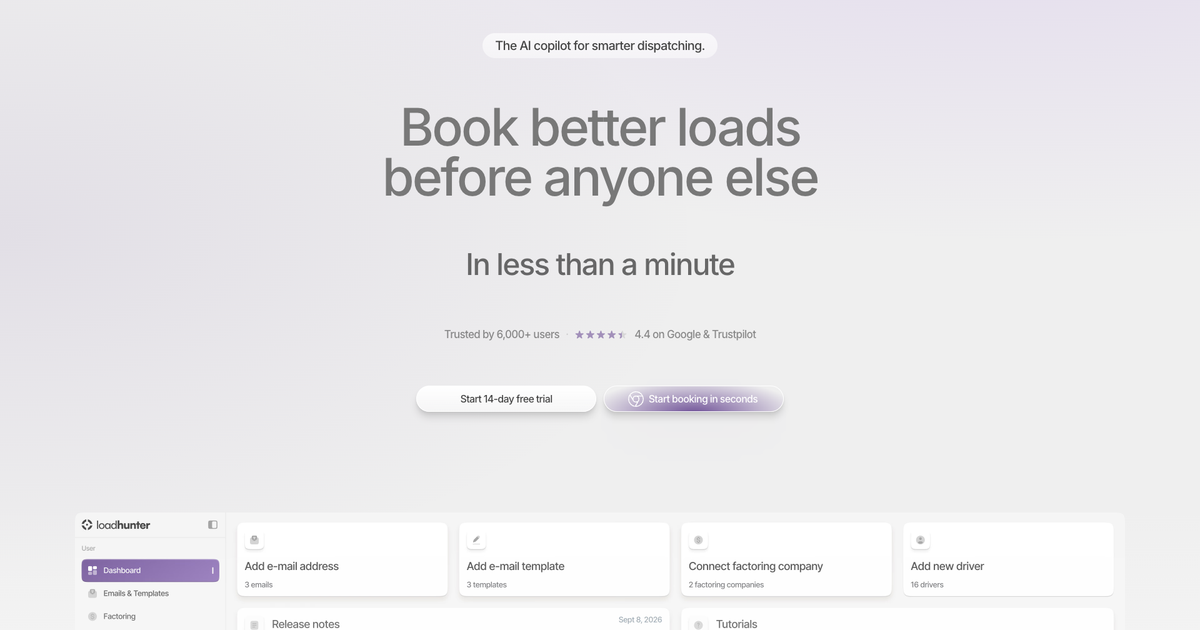
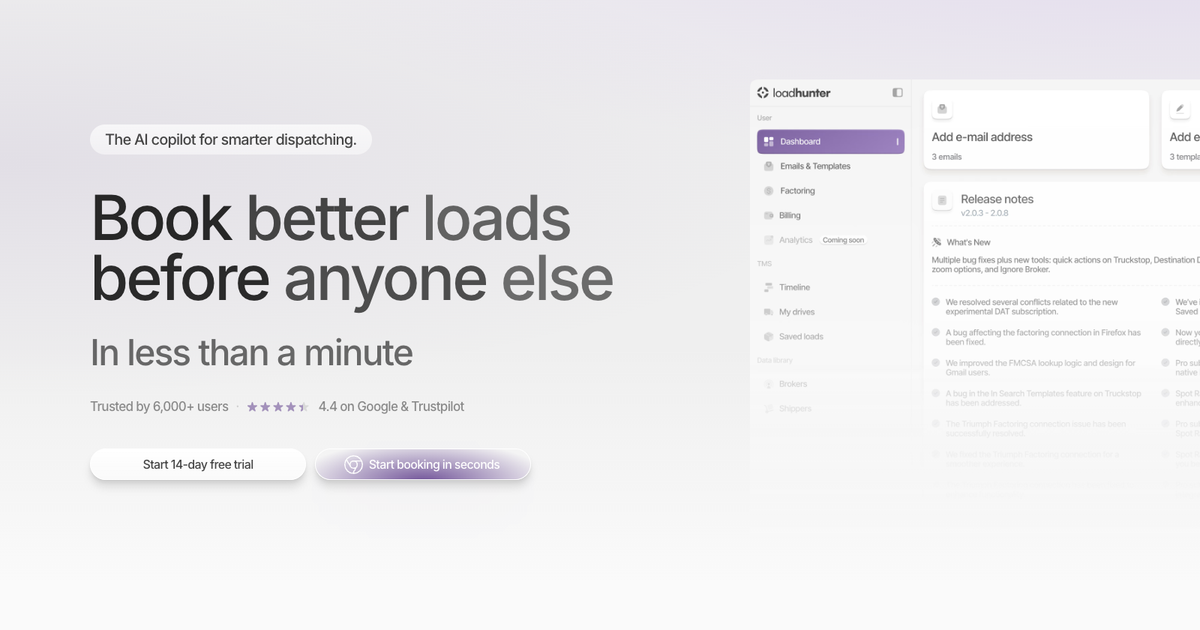
Split the hero left/right and weave the tools blocks together
Hero: copy column moves from the centre to the content grid (x120, w820) and
the dashboard screenshot moves to the right at 1500px wide, so ~580px of it
runs off the canvas edge — the inner canvas does not clip, and above 1920 it
bleeds into the gutter instead of ending on a cut. Its lower third is masked
out: the export's baked #fafafa fade used to read as a light rectangle now
that it no longer spans the full width. Section height 1740 -> 960, which puts
the product on the fold instead of 970px down the page.

Tools: replace the fixed 1461px block pitch with a content-driven rhythm
(previous top + measured height + GAP). GAP is -300, i.e. consecutive blocks
overlap on purpose — they sit on opposite sides of the spine, so the overlap
weaves the two columns together instead of leaving 470-670px in which both
sides were empty. Same-side blocks (i, i+2) keep 195-390px of clear air. First
block starts at 820 instead of 1028. Section height 10960 -> 5378.

og-image.png regenerated from the new hero.

diff --git a/src/sections/Tools.tsx b/src/sections/Tools.tsx
@@ -13,8 +13,9 @@ import { prefersReducedMotion } from "@/lib/inview"
  *   run right → soft arc → vertical drop at the CANVAS CENTRE (x=960).
  *   Feature blocks alternate sides of the centre line (1st right, 2nd left,
  *   …), each with a node on the spine at title level (+20). Block column
- *   w=777; title → desc → 80px → mockup (w=777) → 80px → items; block pitch
- *   1461.
+ *   w=688; title → desc → 80px → mockup (w=688) → 80px → items. The vertical
+ *   rhythm is content-driven — each block starts GAP px under the previous
+ *   one's real height (Block.h), not on the old fixed 1461px pitch.
  *
  * The path is revealed with stroke-dashoffset; the vertical front is kept
  * px-aligned with the 60%-viewport line (the curve prefix is compressed into
@@ -43,6 +44,15 @@ type Block = {
   desc: string
   items: Item[]
   mockup: string
+  /**
+   * Rendered height in canvas px. The blocks are absolutely positioned (fixed
+   * canvas), so the vertical rhythm cannot come from flow — it is
+   * `previous top + previous height + GAP`. Measured in the browser at
+   * scale 1 (`getBoundingClientRect` on `[data-tool-block]`); heights are
+   * stable before the mockups load because <Img> reserves their box from
+   * img-dimensions.ts. RE-MEASURE after editing a block's copy or mockup.
+   */
+  h: number
 }
 
 /* ------------------------------------------------- geometry constants --- */
@@ -51,15 +61,19 @@ const ICON_Y = 628 // icon centre — the horizontal run's y
 const ARC_R = 150 // corner radius of the horizontal→vertical turn
 const CURVE_END_Y = ICON_Y + ARC_R // where the arc lands on the vertical
 const SPINE_D = `M 206 ${ICON_Y} H ${CENTER_X - ARC_R} Q ${CENTER_X} ${ICON_Y} ${CENTER_X} ${CURVE_END_Y}`
-const BLOCK0_Y = 1028 // first block title top
-const PITCH = 1461 // title-to-title vertical rhythm
+const BLOCK0_Y = 820 // first block title top
+/** Vertical step between blocks = previous block's height + GAP. NEGATIVE on
+ *  purpose: consecutive blocks sit on OPPOSITE sides of the spine, so letting
+ *  them overlap by 300px weaves the two columns together (same-side blocks —
+ *  i.e. i and i+2 — still keep 195–390px of clear air). With the old
+ *  1461px pitch every block was followed by 470–670px in which its own side —
+ *  and the other one — were both empty, which read as a bare spine. */
+const GAP = -300
+const TAIL = 300 // air under the last block before the section ends
 const NODE_OFFSET = 20 // node sits level with the block title
 const BLOCK_W = 688 // matches the mock exports’ native width — text aligns to the mock edge
 const RIGHT_X = 1020 // blocks right of the spine
 const LEFT_X = 120 // blocks left of the spine
-const SPINE_BOTTOM = BLOCK0_Y + 6 * PITCH + NODE_OFFSET // last node
-const SECTION_H = 10960
-const SPINE_PATH = `${SPINE_D} V ${SPINE_BOTTOM}`
 
 const BLOCKS: Block[] = [
   {
@@ -81,6 +95,7 @@ const BLOCKS: Block[] = [
       },
     ],
     mockup: "/figma/desk/tools-a.png",
+    h: 865,
   },
   {
     key: "b",
@@ -101,6 +116,7 @@ const BLOCKS: Block[] = [
       },
     ],
     mockup: "/figma/desk/tools-b.png",
+    h: 821,
   },
   {
     key: "c",
@@ -121,6 +137,7 @@ const BLOCKS: Block[] = [
       },
     ],
     mockup: "/figma/desk/tools-c.png",
+    h: 943,
   },
   {
     key: "d",
@@ -141,6 +158,7 @@ const BLOCKS: Block[] = [
       },
     ],
     mockup: "/figma/desk/tools-d.png",
+    h: 992,
   },
   {
     key: "e",
@@ -161,6 +179,7 @@ const BLOCKS: Block[] = [
       },
     ],
     mockup: "/figma/desk/tools-e.png",
+    h: 869,
   },
   {
     key: "f",
@@ -181,6 +200,7 @@ const BLOCKS: Block[] = [
       },
     ],
     mockup: "/figma/desk/tools-f.png",
+    h: 795,
   },
   {
     key: "g",
@@ -201,8 +221,21 @@ const BLOCKS: Block[] = [
       },
     ],
     mockup: "/figma/desk/tools-g.png",
+    h: 773,
   },
 ]
+
+/* Block tops: content-driven rhythm (see Block.h). The old fixed 1461px pitch
+   was ~500–670px of dead air between the shorter blocks — the section read as
+   an empty spine with text far apart. */
+const TOPS = BLOCKS.reduce<number[]>((acc, _b, i) => {
+  acc.push(i === 0 ? BLOCK0_Y : acc[i - 1] + BLOCKS[i - 1].h + GAP)
+  return acc
+}, [])
+const LAST_TOP = TOPS[TOPS.length - 1]
+const SPINE_BOTTOM = LAST_TOP + NODE_OFFSET // last node
+const SECTION_H = LAST_TOP + BLOCKS[BLOCKS.length - 1].h + TAIL
+const SPINE_PATH = `${SPINE_D} V ${SPINE_BOTTOM}`
 
 /* -------------------------------------------------------------- blocks --- */
 
@@ -216,7 +249,7 @@ function ToolBlock({ b, index }: { b: Block; index: number }) {
       data-tool-block={b.key}
       data-no-reveal
       className="absolute"
-      style={{ top: BLOCK0_Y + index * PITCH, left, width: BLOCK_W }}
+      style={{ top: TOPS[index], left, width: BLOCK_W }}
     >
       <h3 data-tb className="text-[30px] font-medium leading-[40px] tracking-[-1.2px] text-white">
         {b.title}
@@ -354,7 +387,7 @@ function Spine() {
           className="absolute size-[14px] rounded-full border border-white/15"
           style={{
             left: CENTER_X - 7,
-            top: BLOCK0_Y + i * PITCH + NODE_OFFSET - 7,
+            top: TOPS[i] + NODE_OFFSET - 7,
             background: "var(--color-gray-900)",
           }}
         />

diff --git a/src/sections/Hero.tsx b/src/sections/Hero.tsx
@@ -5,10 +5,16 @@ import { APP_URL, CHROME_STORE_URL } from "@/sections/Navbar"
 import diamondIcon from "/figma/icon-diamond.svg"
 
 /**
- * Product-SaaS hero (2026-07-27): centered copy column over the shader band,
- * then the app dashboard screenshot sitting on the fold — 1680px wide, i.e. the
- * page's content grid and the native half of the 3360px 2× export, so it renders
- * pixel-for-pixel at canvas scale 1.
+ * Product-SaaS hero — SPLIT layout (2026-07-31): copy column left on the
+ * content grid (x120), the app screenshot right, deliberately oversized so its
+ * right half runs off the canvas/viewport edge (the classic "app peeking in"
+ * SaaS hero). Replaces the earlier centered-copy + full-width-mockup-below
+ * composition, which pushed the product 970px down the page.
+ *
+ * DesignFrame's inner canvas does not clip (only the outer viewport wrapper
+ * does), so the overflow simply falls off the right edge — and above 1920 it
+ * bleeds into the side gutter instead of ending on a hard cut, same as the
+ * other full-bleed decor.
  *
  * The export is fully OPAQUE and its content already fades out into #fafafa at
  * the bottom (baked in Figma) = var(--color-bg-light) = the Features section
@@ -17,12 +23,17 @@ import diamondIcon from "/figma/icon-diamond.svg"
  * bottom and side edges dissolve instead of ending on a visible rectangle, and
  * the hero → Features seam disappears.
  */
-const MOCK_TOP = 970
-const MOCK_H = 718 // 1680 × (1436/3360)
+const HERO_H = 960
+const COPY_TOP = 236
+const COPY_W = 820 // x120 → x940; the widest rotating line ("before anyone else") fits
+const MOCK_LEFT = 1000
+const MOCK_W = 1500 // ~580px of it lives past the canvas edge
+const MOCK_TOP = 176
+const MOCK_H = Math.round(MOCK_W * (1436 / 3360)) // 641
 
 export function Hero() {
   return (
-    <section className="relative h-[1740px] w-full">
+    <section className="relative w-full" style={{ height: HERO_H }}>
       {/* animated shader background (experiment) — portalled full-bleed behind
           the page; also paints the hero's var(--color-hero) base into the side gutters.
           The static fallback echoes the flow-layout hero tints so Safari
@@ -45,8 +56,11 @@ export function Hero() {
         }
       />
 
-      {/* copy — centered */}
-      <div className="absolute inset-x-0 top-[203px] z-20 flex flex-col items-center gap-[70px] px-[120px] text-center">
+      {/* copy — left column on the content grid */}
+      <div
+        className="absolute left-[120px] z-20 flex flex-col items-start gap-[44px] text-left"
+        style={{ top: COPY_TOP, width: COPY_W }}
+      >
         {/* eyebrow pill */}
         <span
           className="inline-flex w-fit items-center rounded-full px-[20px] py-[4px] text-[20px] font-medium leading-[32px] tracking-[-0.8px] text-ink"
@@ -58,7 +72,7 @@ export function Hero() {
           The AI copilot for smarter dispatching.
         </span>
 
-        <div className="flex flex-col items-center gap-[60px]">
+        <div className="flex flex-col items-start gap-[20px]">
           {/* rotating typed H1 + matching sub-headline badge */}
           <RotatingHeadline />
 
@@ -120,19 +134,30 @@ export function Hero() {
         </div>
       </div>
 
-      {/* product screenshot — content grid (x120, w1680), native 2× export */}
+      {/* product screenshot — right of the copy, running off the canvas edge.
+          The export is opaque and its baked bottom fade lands on #fafafa, which
+          used to read as a light rectangle now that it no longer spans the full
+          width — so the box is masked out over its lower third and dissolves
+          into the band instead of ending on a straight cut. */}
       <div
-        className="absolute left-[120px] z-10 w-[1680px]"
-        style={{ top: MOCK_TOP, height: MOCK_H }}
+        className="absolute z-10"
+        style={{
+          top: MOCK_TOP,
+          left: MOCK_LEFT,
+          width: MOCK_W,
+          height: MOCK_H,
+          maskImage: "linear-gradient(to bottom, #000 58%, transparent 97%)",
+          WebkitMaskImage: "linear-gradient(to bottom, #000 58%, transparent 97%)",
+        }}
       >
         <Img
           src="/figma/hero-dashboard-2x.png"
           alt="LoadHunter dashboard: e-mail templates, factoring, drivers, release notes and tutorials"
           fetchPriority="high"
           decoding="async"
-          width={1680}
+          width={MOCK_W}
           height={MOCK_H}
-          className="block h-full w-full"
+          className="block h-full w-full max-w-none"
         />
       </div>
     </section>
